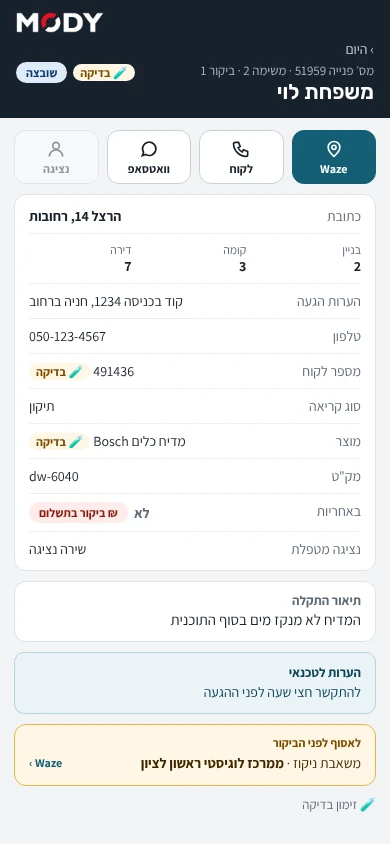
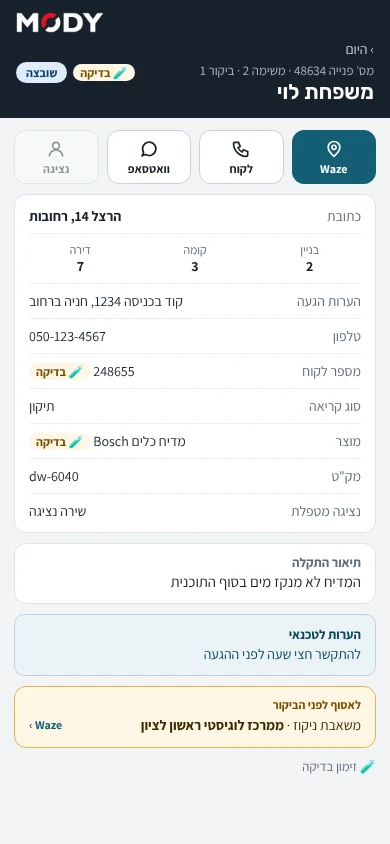
feat(tech): building/floor/apartment in centred columns; no warranty or paid-visit marker (D68); screenshots at 390/820 (D69)
Claude-Session: https://claude.ai/code/session_011xmGFVK2QmcW74JWFpUCsc

diff --git a/components/tech/VisitInfo.tsx b/components/tech/VisitInfo.tsx
@@ -6,19 +6,16 @@ import type { VisitDetail } from "@/features/visits/data/types";
 // Look as in the demo: a key-value card (address, building / floor / apartment, arrival notes,
 // phone, product, SKU, warranty, handling rep), the fault description, and the yellow
 // "לאסוף לפני הביקור" card with "Waze ›" to the pickup place. Changes (docs/demo-deviations.md):
-// - TE-08: warranty shows "לא צוין" when empty.
+// - D68 (owner, 2026-11-18): no warranty row and no "ביקור בתשלום" marker on technician screens
+//   (supersedes TE-11; warranty removed from TE-08 here; the office call card keeps it).
+// - Owner, 2026-11-18: building / floor / apartment in three equal columns, label and value
+//   centred in each (building right, floor middle, apartment left).
 // - TE-09 (ADD): "מספר לקוח".
 // - TE-10 (ADD): "הערות לטכנאי" from the invitation, as a note under the fault description.
-// - TE-11 (ADD): "ביקור בתשלום" marker when the warranty is "לא".
 // - SIM-16, SIM-17: 🧪 badge on a test customer (next to the customer number) and product.
 // - Added: the second phone when the invitation has one.
 // - Added (Step 3, the coordinator's visit-card list): "סוג קריאה" ("תיקון" / "התקנה", D48).
 // Presentational: the caller passes the pickup place's "Waze ›" element.
-
-export const WARRANTY_NOT_GIVEN = "לא צוין";
-
-/** TE-11: the warranty field says the visit is not covered. */
-export const isPaidVisit = (warranty: string): boolean => warranty.trim() === "לא";
 
 const Row = ({ k, children }: { k: string; children: ReactNode }) => (
   <div className="row">
@@ -28,7 +25,7 @@ const Row = ({ k, children }: { k: string; children: ReactNode }) => (
 );
 
 const Cell = ({ k, v }: { k: string; v: string }) => (
-  <div>
+  <div style={{ textAlign: "center" }}>
     <div className="k" style={{ fontSize: 12 }}>
       {k}
     </div>
@@ -36,10 +33,9 @@ const Cell = ({ k, v }: { k: string; v: string }) => (
   </div>
 );
 
-/** Customer, address and product rows (TE-08 to TE-11). */
+/** Customer, address and product rows (TE-08 to TE-10; no warranty, D68). */
 export function VisitInfoCard({ visit }: { visit: VisitDetail }) {
   const { customer: cu, product: p, call } = visit;
-  const warranty = call.warranty.trim();
   return (
     <section className="card" aria-label="פרטי הלקוח והמוצר" style={{ padding: "4px 14px" }}>
       <Row k="כתובת">
@@ -47,7 +43,7 @@ export function VisitInfoCard({ visit }: { visit: VisitDetail }) {
           {cu.address.street}, {cu.address.city}
         </b>
       </Row>
-      <div className="row" style={{ display: "grid", gridTemplateColumns: "repeat(3, 1fr)" }}>
+      <div className="row" style={{ display: "grid", gridTemplateColumns: "repeat(3, minmax(0, 1fr))" }}>
         <Cell k="בניין" v={cu.address.building} />
         <Cell k="קומה" v={cu.address.floor} />
         <Cell k="דירה" v={cu.address.apt} />
@@ -98,18 +94,6 @@ export function VisitInfoCard({ visit }: { visit: VisitDetail }) {
       </Row>
       <Row k='מק"ט'>
         <span dir="ltr">{p.sku}</span>
-      </Row>
-      <Row k="באחריות">
-        <span style={{ display: "flex", gap: 6, alignItems: "center", flexWrap: "wrap", justifyContent: "flex-end" }}>
-          <span style={{ fontWeight: 700, color: warranty.startsWith("כן") ? "var(--s-done)" : "var(--muted)" }}>
-            {warranty || WARRANTY_NOT_GIVEN}
-          </span>
-          {isPaidVisit(warranty) && (
-            <span className="pill" style={{ background: "var(--danger-bg)", color: "var(--danger-fg)" }}>
-              ₪ ביקור בתשלום
-            </span>
-          )}
-        </span>
       </Row>
       {call.representative.name && (
         <Row k="נציגה מטפלת">

diff --git a/tests/auth/tech-today.spec.ts b/tests/auth/tech-today.spec.ts
@@ -106,7 +106,7 @@ test.describe.serial("technician home and visit card (Step 3, local stack)", () 
     await expect(page.locator(".ph-head")).toContainText(`מס׳ פנייה ${mine.first.req} · משימה 1 · ביקור 1`);
     await expect(page.locator(".ph-head")).toContainText("שובצה");
     const info = page.getByRole("region", { name: "פרטי הלקוח והמוצר" });
-    for (const value of [`${mine.first.street}, ${mine.first.city}`, mine.first.arrival, mine.first.phone, mine.first.customerNo, "תיקון", mine.first.product, mine.first.sku, "₪ ביקור בתשלום", "שירה נציגה"]) {
+    for (const value of [`${mine.first.street}, ${mine.first.city}`, mine.first.arrival, mine.first.phone, mine.first.customerNo, "תיקון", mine.first.product, mine.first.sku, "שירה נציגה"]) {
       await expect(info).toContainText(value);
     }
     await expect(page.getByRole("region", { name: "תיאור התקלה" })).toContainText(mine.first.desc);
@@ -123,15 +123,22 @@ test.describe.serial("technician home and visit card (Step 3, local stack)", () 
     await expect(page.getByRole("button")).toHaveCount(0);
   });
 
-  test("warranty with a date, call type and no paid marker", async ({ page }) => {
+  test("no warranty and no paid marker on the technician's card (D68), call type shown", async ({ page }) => {
     const { tech } = seeded();
     await signInAs(page, tech, /\/tech$/);
     await page.goto(`/tech/visit/${ids.second}`);
     const info = page.getByRole("region", { name: "פרטי הלקוח והמוצר" });
-    await expect(info).toContainText("כן · עד 03/2028");
     await expect(info).toContainText("התקנה");
+    await expect(info).not.toContainText("באחריות");
+    await expect(info).not.toContainText("כן · עד 03/2028");
     await expect(info).not.toContainText("ביקור בתשלום");
     await expect(page.getByRole("region", { name: "לאסוף לפני הביקור" })).toHaveCount(0);
+    // The paid-visit case (warranty "לא") shows no marker either.
+    await page.goto(`/tech/visit/${ids.first}`);
+    const first = page.getByRole("region", { name: "פרטי הלקוח והמוצר" });
+    await expect(first).toContainText(mine.first.product);
+    await expect(first).not.toContainText("באחריות");
+    await expect(first).not.toContainText("ביקור בתשלום");
   });
 
   test("another technician's visit, a cancelled visit and a malformed id are not found (nothing rendered)", async ({ page }) => {

diff --git a/tests/auth/tech-screenshots.spec.ts b/tests/auth/tech-screenshots.spec.ts
@@ -6,7 +6,7 @@ import { seeded, signInAs } from "./helpers";
 import { attendeeOf, ensurePickupPlace, ingestVisit, signedInClient, type FictionalVisit } from "./tech-fixtures";
 
 // On demand only (SCREENSHOTS=1): the review images of the real technician home and visit card
-// (Step 3; D62 (6): every state at 390, 820 and 1440 px), from a local production build signed in to
+// (Step 3; D62 (6) as amended by D69: every state at 390 and 820 px), from a local production build signed in to
 // the LOCAL stack (tests/auth/run-local.mjs). Every record is fictional and test-marked (D47): the
 // visits are made through the invitation simulator's ingestion service under the Manager's session.
 //   SCREENSHOTS=1 node tests/auth/run-local.mjs tests/auth/tech-screenshots.spec.ts
@@ -15,7 +15,6 @@ const OUT = path.resolve(process.env.SHOTS_DIR || "docs/review/tech-today");
 const SIZES = [
   { width: 390, height: 844 },
   { width: 820, height: 1180 },
-  { width: 1440, height: 900 },
 ] as const;
 
 test.skip(!process.env.SCREENSHOTS, "screenshots are taken on demand only");
@@ -90,7 +89,7 @@ test("technician home and visit card: review screenshots", async ({ page }) => {
   await shoot(page, "visit-card");
   await page.goto(`/tech/visit/${ids[1]}`);
   await expect(page.getByRole("heading", { level: 1, name: "משפחת כהן" })).toBeVisible();
-  await shoot(page, "visit-card-warranty");
+  await shoot(page, "visit-card-install");
 
   await page.goto("/tech/done");
   await expect(page.getByRole("heading", { level: 1, name: "הושלמו היום" })).toBeVisible();

diff --git a/app/(tech)/tech/visit/[id]/page.tsx b/app/(tech)/tech/visit/[id]/page.tsx
@@ -33,7 +33,7 @@ function metaOf(v: Pick<VisitDetail, "task" | "n"> & { call: { req: string } }):
 // action tiles as real links (Waze deep link, `tel:` and WhatsApp to the customer, `tel:` to the
 // handling representative's work phone, TE-07, D40), the details card (address, building / floor /
 // apartment, arrival notes, phone, customer number TE-09, call type, product, SKU, warranty with
-// "לא צוין" TE-08 and "₪ ביקור בתשלום" TE-11, handling rep), the fault, "הערות לטכנאי" (TE-10), the
+// handling rep; no warranty or paid-visit marker, D68), the fault, "הערות לטכנאי" (TE-10), the
 // pickup with "Waze ›", and the visit source (TE-12, SIM-14); 🧪 badges on test records (D47).
 // Closed visit ("טופל" / "המשך טיפול"): read-only (D14, TE-26) with the summary, the follow-up reason
 // and next-visit note, and the approval text preserved at signing with the signer (D43). No field

diff --git a/docs/review/tech-today/README.md b/docs/review/tech-today/README.md
@@ -78,14 +78,19 @@ Migration 3 `visits`, `my_visit_details`, `visit_rep_contact`, `previous_visits`
 
 ## Screenshots (local production build against the isolated stack; fictional, test-marked data)
 
-`390-`, `820-`, `1440-` × `home-empty-day`, `home-day`, `home-pickup-ticked`, `visit-card`,
-`visit-card-warranty`, `done-empty`, `visit-not-found`. Taken with
-`SCREENSHOTS=1 node tests/auth/run-local.mjs tests/auth/tech-screenshots.spec.ts`.
+`390-`, `820-` (D69: technician screens at 390 / 820 only) × `home-empty-day`, `home-day`,
+`home-pickup-ticked`, `visit-card`, `visit-card-install`, `done-empty`, `visit-not-found` (WebP).
+Taken with `SCREENSHOTS=1 node tests/auth/run-local.mjs tests/auth/tech-screenshots.spec.ts`.
+
+## Owner corrections (2026-11-18)
+
+- Building / floor / apartment: three equal columns, label and value centred (building right, floor middle, apartment left).
+- No "באחריות" row and no "ביקור בתשלום" marker on technician screens (D68).
 
 ## מה לבדוק
 
 1. מסך "היום": המונים "ביקורים היום" ו"הושלמו", כרטיס "הביקור הבא" וההודעה כשאין ביקורים.
-2. "מה לאסוף לפני יציאה": מקובץ לפי מקום איסוף, עם Waze לכל מקום; מוסתר כשאין מה לאסוף; השורה "הסימון נשמר במכשיר הזה בלבד, להיום".
-3. כרטיס הביקור: מס׳ פנייה בכותרת, מספר לקוח, סוג קריאה, מוצר ומק"ט, אחריות ו"₪ ביקור בתשלום", הערות לטכנאי, וכפתורי Waze / לקוח / וואטסאפ / נציגה.
-4. סימון 🧪 על כל נתוני הבדיקה ושורת המקור "🧪 זימון בדיקה".
-5. בשלב הזה "ניווט · Waze" רק פותח את Waze (בלי שינוי סטטוס); היציאה, ההגעה והסיום מגיעים במסך הבא.
+2. "מה לאסוף לפני יציאה": מקובץ לפי מקום איסוף, עם Waze לכל מקום; השורה "הסימון נשמר במכשיר הזה בלבד, להיום".
+3. כרטיס הביקור: בניין / קומה / דירה בשלוש עמודות שוות וממורכזות (בניין מימין, קומה באמצע, דירה משמאל).
+4. כרטיס הביקור: אין שורת "באחריות" ואין "ביקור בתשלום" (גם בביקור שאינו באחריות).
+5. סימון 🧪 על נתוני הבדיקה; "ניווט · Waze" רק פותח את Waze (היציאה, ההגעה והסיום במסך הבא).
